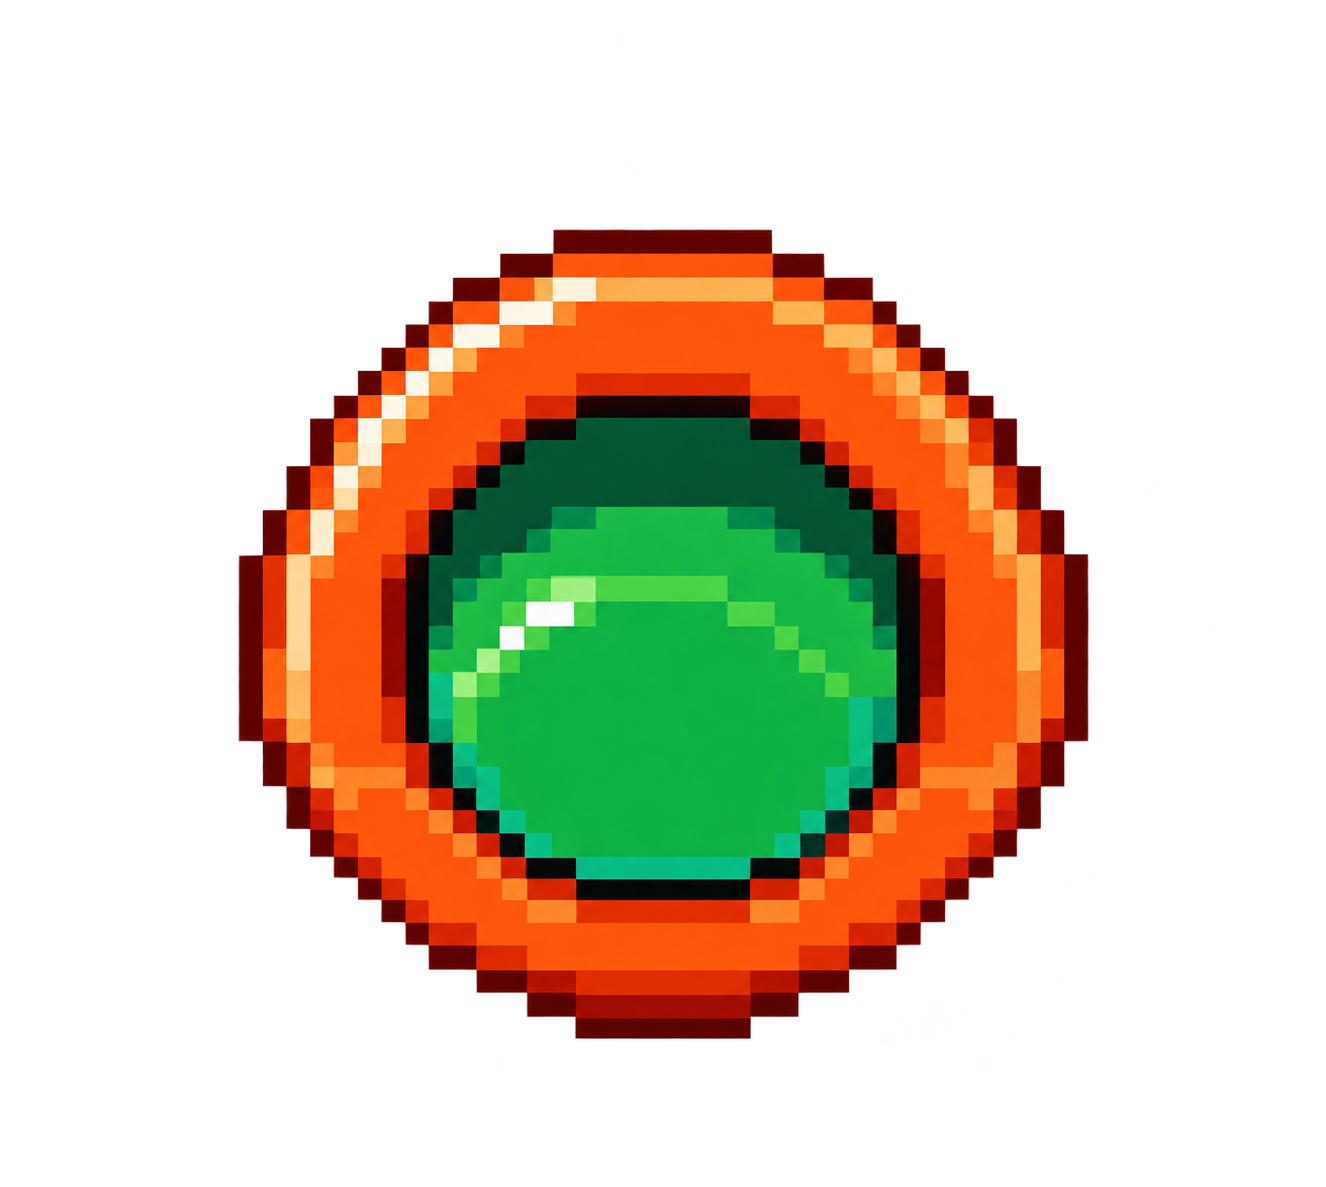
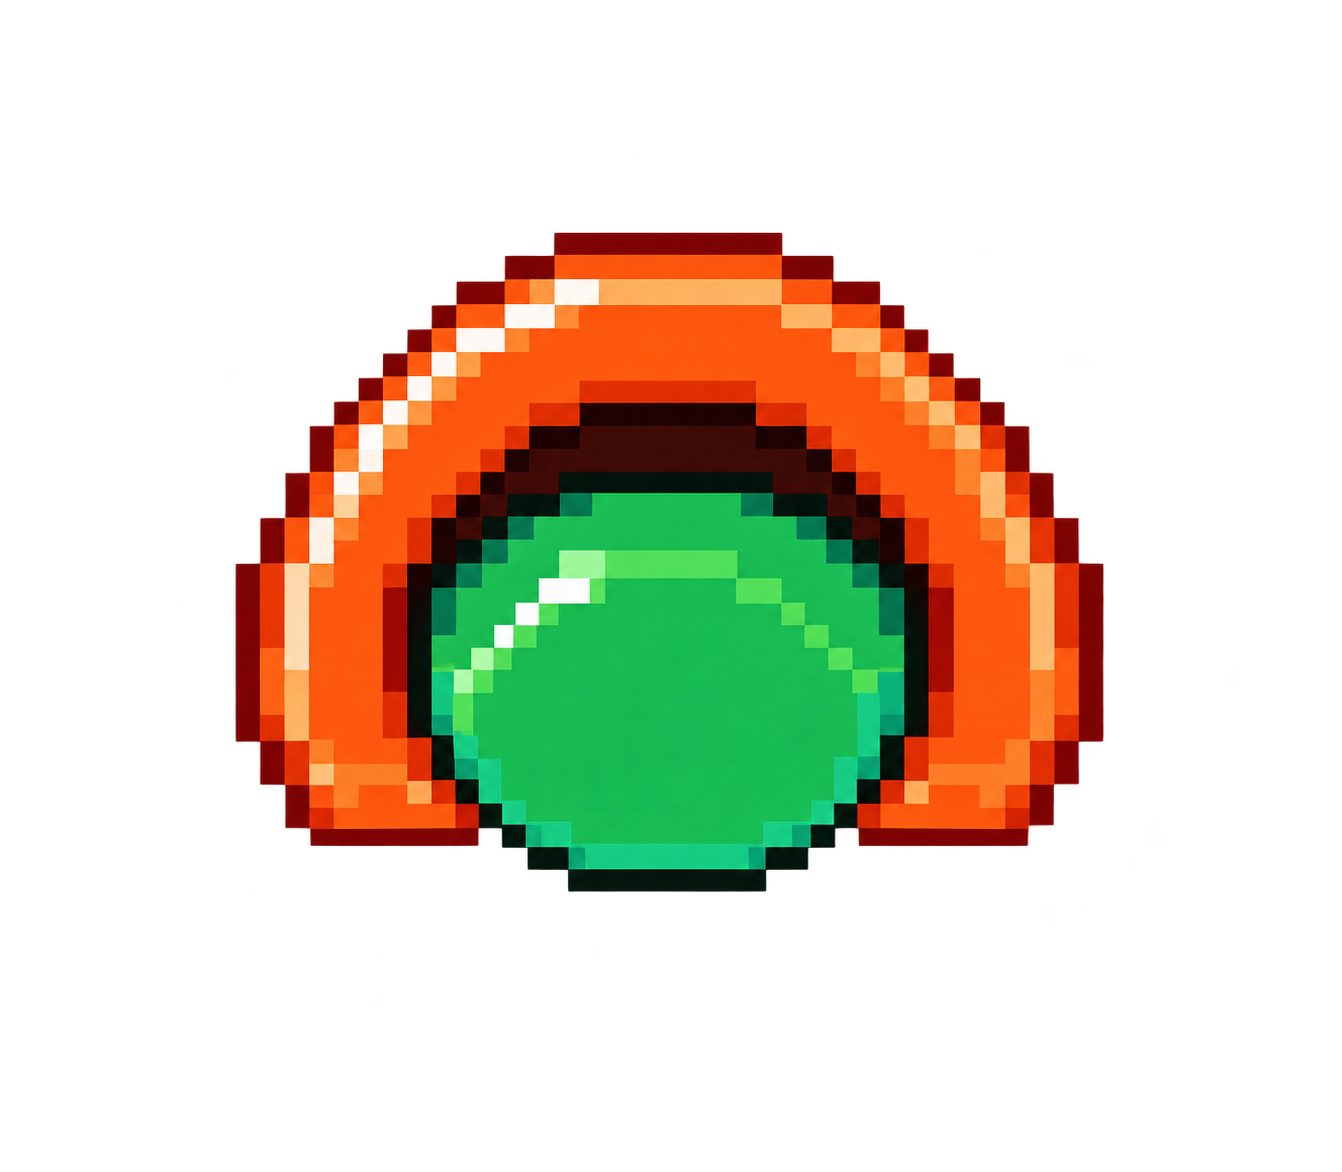
m

Changed region(s): [[0.1546, 0.1843, 0.8348, 0.8908]]

diff --git a/ui.py b/ui.py
@@ -19,13 +19,15 @@ class UI:
     self.state = "start"
     self.score = settings.STARTING_SCORE
     self.button_image = pygame.image.load("pic/button.png")
+    print("Button image size:", self.button_image.get_size())
+    self.button_image = pygame.transform.scale(self.button_image, (80,50))
     self.end_image = pygame.image.load("pic/End.png")
     self.start_image = pygame.image.load("pic/Start.png")
     self.background_image = pygame.image.load("pic/Ring_Rush.png")
     pygame.display.set_caption("Ring Rush") #title of the window
     pygame.font.init()
     self.game_font = pygame.font.SysFont("Arial", 24)
-    pass
+    self.button_image = pygame.transform.scale(self.button_image, (175,175))
    
     # Store the current score.
 
@@ -85,10 +87,13 @@ class UI:
       screen.blit(instruction_surface, (450, 20))
     
       #if a button is pressed then the image will change
+      """
+      IF WE HAVE TIME CHANGE THIS BUTTON PLS OMG ITS BAD
+      """
       if self.leftpressed:
-          screen.blit(self.button_image, (250, 484))
-      else:
-          screen.blit(self.button_image,(250,480))
+          screen.blit(self.button_image, (231, 412))
+      
+     
     # Draw the start screen or game-over screen based on the game state.
     
     # Keep drawing separate from updating the score and timer.
